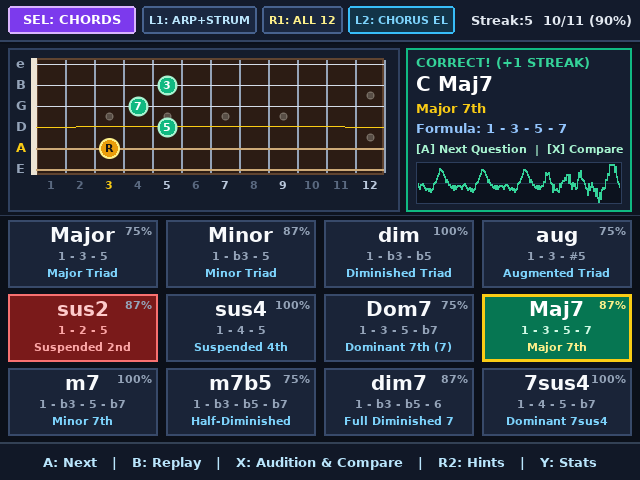
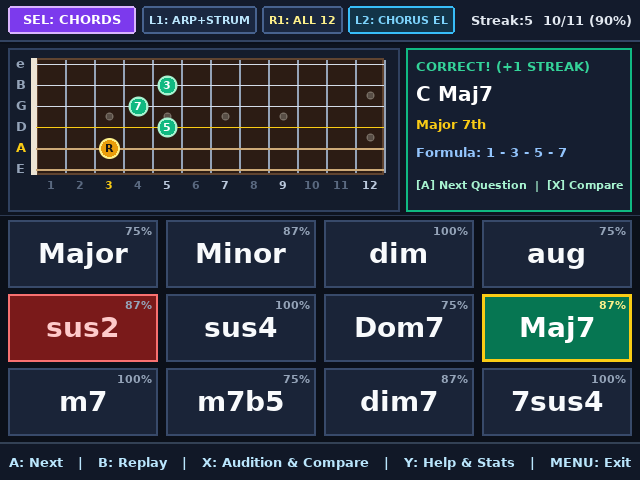
new screenshots

diff --git a/night_clock/README.md b/night_clock/README.md
@@ -15,7 +15,7 @@ A single-screen bedside and desk clock for the **Anbernic RG 35xxSP** (Allwinner
 ### 3. Single-Screen Alarm Editor (in Shifted Timezone)
 ![Alarm Set Mode](promo/alarm_set.png)
 
-### 4. Right Shoulder (`R1`) Controls & Button Mappings Screen
+### 4. Controls & Button Mappings Screen (`Y`)
 ![Help Screen](promo/help_screen.png)
 
 ---
@@ -26,21 +26,21 @@ A single-screen bedside and desk clock for the **Anbernic RG 35xxSP** (Allwinner
    - Pressing **D-Pad `LEFT`** or **`RIGHT`** shifts the clock's displayed time in **30-minute increments** (`-24:00` to `+24:00`) relative to the device's clock (`TZ +00:00`, `TZ +05:30`, `TZ -03:30`, etc.).
    - The shift applies **only** to `night_clock` (the OS/device timezone and RTC are never modified) and is persisted across reboots in `.night_clock.cfg`.
 
-2. **24-Hour Retro LED Dot-Matrix Digital & Minimalist Analog Display (`X` Key)**:
+2. **24-Hour Retro LED Dot-Matrix Digital & Minimalist Analog Display (`SELECT`)**:
    - **Digital Mode (Default)**: Displays **24-hour time** (`00:00` – `23:59`, `HH:MM` without seconds) using a custom **`7×11` Retro LED Dot-Matrix Bit-Font** (`105×165 px` per digit) with a constant (non-blinking) `:` separator, plus a subtle metadata strip underneath (`24H | TZ +/-HH:MM | ALARM ...`).
-   - **Analog Mode (`X` Key)**: Switches to a high-contrast, minimalist analog clock dial (`radius = 178 px`) with bold Hour and Minute batons (no second hand) rendered using anti-aliased distance-field circles and lines, plus a muted-gold alarm indicator needle when the alarm is armed.
+   - **Analog Mode (`SELECT`)**: Switches to a high-contrast, minimalist analog clock dial (`radius = 178 px`) with bold Hour and Minute batons (no second hand) rendered using anti-aliased distance-field circles and lines, plus a muted-gold alarm indicator needle when the alarm is armed.
    - **10-Minute IPS Anti-Burn-In Orbit**: Every **10 minutes**, the clock center smoothly glides to the next position on a bounded 9-point orbit around the `640×480` screen center (`±38 px` horizontal, `±26 px` vertical) so no static high-contrast pixels remain fixed overnight.
 
 3. **Brightness (`UP` / `DOWN`) & Volume Level Indicator (`VOL+` / `VOL-`)**:
    - **Brightness (`UP` / `DOWN`)**: Steps brightness across levels `1..10` (with continuous hold auto-repeat), updating both the hardware backlight (`/sys/class/disp/disp/attr/lcdbl` and `/sys/class/backlight/*/brightness`) and a software RGB dimming curve (`22%..100%`).
    - **Volume Level & Confirmation (`VOL+` / `VOL-`)**: Pressing or holding **`VOL+`** / **`VOL-`** displays an on-screen **Volume** indicator (`0 / 10` .. `10 / 10` with a 10-segment bar) in real time and, when released at the end of the adjustment, plays the confirmation alarm tone at that selected volume.
 
-4. **Single-Screen Alarm Editor (`A` Key) & Controls View (`R1`)**:
+4. **Single-Screen Alarm Editor (`A` Key) & Controls View (`Y`)**:
    - **Set Alarm (`A` Key)**:
      - Pressing **`A`** opens the interactive **Alarm Set** view on the screen (`HOUR`, `MINUTE`, `ON/OFF` in the **shifted timezone**).
      - Pressing **`A`** again saves and arms the alarm, plays a **4-pulse dual-harmonic confirmation alarm sound** (~1.6 seconds) at the current volume, and resumes the clock. Pressing **`B`** disables the alarm and returns to the clock.
-   - **Controls / Help (`R1`)**:
-     - Pressing **`R1`** (Right Shoulder) shows the **Controls & Button Mappings** view on the screen; pressing **`R1`** again resumes the clock.
+   - **Controls / Help (`Y`)**:
+     - Pressing **`Y`** shows the **Controls & Button Mappings** view on the screen; pressing **`Y`** or **`B`** resumes the clock.
 
 ---
 
@@ -50,14 +50,14 @@ A single-screen bedside and desk clock for the **Anbernic RG 35xxSP** (Allwinner
 | :--- | :--- | :--- |
 | **Shift Local Timezone (`-30m` / `+30m`, hold for continuous)** | **D-Pad LEFT** / **RIGHT** | `Left Arrow` / `Right Arrow` |
 | **Adjust Brightness (`1..10`, hold for continuous)** | **D-Pad UP** / **DOWN** | `Up Arrow` / `Down Arrow` |
-| **Toggle Digital (Retro LED 24H) ↔ Analog Clock** | **X** | `X` (or `Left Shift`) |
+| **Toggle Digital (Retro LED 24H) ↔ Analog Clock** | **SELECT** | `Tab` / `Backspace` |
 | **Open Alarm Set Screen / Confirm & Play Test Alarm** | **A** | `A` (or `Space` / `Z` / `Left Alt`) |
-| **Cancel / Turn Off Alarm (in Alarm Set Screen)** | **B** | `B` (or `Backspace` / `Left Ctrl`) |
-| **Quick-Toggle Alarm ON / OFF** | **Y** | `Y` |
-| **Show Controls Screen / Resume Clock** | **R1 (Right Shoulder)** | `R`, `E`, `]`, or `Page Up` |
-| **Fast Alarm Minute Step (`-5m` / `+5m` in Alarm Set Screen)** | **L1 / L2** (`-5m`) and **R2** (`+5m`) | `L` / `Q` / `[` / `1` (`-5m`) and `2` (`+5m`) |
+| **Cancel / Turn Off Alarm (in Alarm Set Screen)** | **B** | `B` (or `Left Ctrl`) |
+| **Quick-Toggle Alarm ON / OFF** | **B** | `B` |
+| **Show Controls Screen / Resume Clock** | **Y** | `Y` (or `H`) |
+| **Fast Alarm Minute Step (`-5m` / `+5m` in Alarm Set Screen)** | **L1 / L2** (`-5m`) and **R1 / R2** (`+5m`) | `L` / `Q` / `[` / `1` (`-5m`) and `R` / `E` / `]` / `2` (`+5m`) |
 | **Volume Up / Down (plays confirmation alarm at end)** | **VOL+** (`115`) / **VOL-** (`114`) | `+` / `=` and `-` / `_` |
-| **Save Configuration & Exit** | **START**, **SELECT**, or **MENU (`M`)** | `Enter`, `Tab`, `M`, or `ESC` |
+| **Save Configuration & Exit** | **MENU (`M`)** | `M`, `Q`, or `ESC` |
 
 ---
 

diff --git a/eartrainer/README.md b/eartrainer/README.md
@@ -6,10 +6,10 @@ A guitar-focused **Interval (`m2`–`P8`) and Chord Quality (`Major`, `Minor`, `
 
 ## Screenshots
 
-### 1. Interval Guessing Mode (`INTERVALS` — 3 Tries, Fretboard Root & Live Waveform)
+### 1. Interval Guessing Mode (`INTERVALS` — 3 Tries & Fretboard Root)
 ![Interval Guessing](promo/eartrainer_intervals.png)
 
-### 2. Interval Revealed (`P5` — Fretboard Shape, Degree Badge, Song Mnemonic & Oscilloscope)
+### 2. Interval Revealed (`P5` — Fretboard Shape, Degree Badge & Song Mnemonic)
 ![Interval Revealed](promo/eartrainer_revealed.png)
 
 ### 3. Chord Quality Mode (`CHORDS` — Moveable 4-String `C Maj7` Voicing & Chorus Electric Timbre)
@@ -28,11 +28,11 @@ A guitar-focused **Interval (`m2`–`P8`) and Chord Quality (`Major`, `Minor`, `
 2. **Asynchronous Background Audio Synthesis Thread**:
    - Note scheduling (`ASC`, `DESC`, `HARM`, `MIX`, `ARP+STRUM`, `STRUM`, `ARPEGGIO`), string excitation, and biquad body filtering run inside a **dedicated background audio thread** driven via a lock-free atomic command ring buffer (`post_audio_batch()`), keeping the `640×480` UI completely non-blocking at 60 FPS.
 3. **Native `640×480` High-Resolution Display**:
-   - **12-Fret 6-String Rosewood Fretboard (`E A D G B e`)**: Displays realistic bronze/steel string gauges, real-time vibrating string animation when notes ring, anti-aliased fret markers (`R` in gold, target interval or 4-string chord shape in emerald green or audition blue with interval degree badges `R`, `3`, `5`, `7`), and fret numbers `1`–`12`.
-   - **Inspector & Live Waveform Oscilloscope Card**: Shows the root note string/fret, remaining guess pips, full interval/chord spelling, classic song mnemonic, and a real-time audio oscilloscope.
-   - **Rich 4×3 Answer Keypad Grid**: Each of the 12 cards displays the interval/chord title, semitone count or chord formula, song mnemonic or full chord name (toggleable via `R2`), and your lifetime accuracy percentage for that item.
+   - **12-Fret 6-String Rosewood Fretboard (`E A D G B e`)**: Displays realistic bronze/steel string gauges, anti-aliased fret markers (`R` in gold, target interval or 4-string chord shape in emerald green or audition blue with interval degree badges `R`, `3`, `5`, `7`), and fret numbers `1`–`12`.
+   - **Inspector Card**: Shows the root note string/fret, remaining guess pips, full interval/chord spelling, and classic song mnemonic.
+   - **High-Visibility 4×3 Answer Keypad Grid**: Each of the 12 cards displays the interval/chord label in large `28px` typography (`m2`, `M2`, `m3`, `M3`, etc.) along with your lifetime accuracy percentage for that item.
 4. **Hardware-Accurate RG 35xxSP & Desktop Keyboard Controls**:
-   - Maps all RG 35xxSP `evdev` buttons (`304`=A, `305`=B, `306`=X, `307`=Y, `308`=L1, `309`=R1, `310`/`314`=SELECT, `311`/`315`=START, `312`=L2, `313`=R2) and desktop keyboard keys (`A`, `B`, `X`, `Y`, `L`, `R`, `1`, `2`, `Tab`, `Enter`, cursor arrows).
+   - Maps all RG 35xxSP `evdev` buttons (`304`=A, `305`=B, `306`=Y, `307`=X, `308`=L1, `309`=R1, `310`=SELECT, `311`=START, `312`=L2, `313`=R2, `316`=MENU) and desktop keyboard keys (`A`, `B`, `X`, `Y`, `L`, `R`, `1`, `2`, `Tab`, `Enter`, cursor arrows).
 
 ---
 

diff --git a/fretboard/README.md b/fretboard/README.md
@@ -22,12 +22,12 @@ An interactive 15-fret guitar neck encyclopedia, CAGED scale box visualizer, cho
    - Replaces the V90's fixed-point 16-bit synthesizer with a 6-string 32-bit `float` Extended Karplus-Strong waveguide synthesizer featuring **first-order Thiran all-pass fractional delay interpolation** (eliminating high-fret pitch quantization up to Fret 15), **pick-position comb filtering**, **dual-biquad acoustic body resonance**, **3 selectable guitar timbres (`L2`)** (*Warm Acoustic*, *Chorus Electric*, and *Tube Overdrive*), and **stereo chorus / room ambience**.
 2. **Asynchronous Background Audio Thread**:
    - All scale box runs, chord strums, arpeggio cascades, and single-string plucks are posted via a lock-free atomic ring buffer (`g_cmd_ring`) and synthesized entirely on a dedicated background audio thread, keeping the `640×480` UI thread at a rock-solid 60 FPS.
-3. **Native `640×480` Resolution & Live Vibrating String Physics**:
-   - Renders a full **15-fret rosewood fingerboard (`Frets 0–15`)** with pearloid inlays (`3, 5, 7, 9, 12, 15`), string gauge shading, real-time vibrating string waveforms, and a live stereo oscilloscope in the upper-right theory card.
+3. **Native `640×480` Resolution**:
+   - Renders a full **15-fret rosewood fingerboard (`Frets 0–15`)** with pearloid inlays (`3, 5, 7, 9, 12, 15`), string gauge shading, and a dedicated upper-right theory & interval spelling card.
    - Displays both the active chord voicing (`F1..F4` fingerings or note names) and the full-neck underlying arpeggio tones simultaneously in **Chords & Arpeggios** mode.
    - Supports **6 guitar tunings (`R2` or inside `Y` Help)**: *Standard (`E A D G B e`)*, *Drop D (`D A D G B e`)*, *Eb Standard*, *D Standard*, *DADGAD*, and *Open G (`D G D G B D`)*.
 4. **Native RG35XXSP Hardware Controls + Desktop Keyboard Parity**:
-   - Maps all RG35XXSP `evdev` buttons (`A=304`, `B=305`, `X=306`, `Y=307`, `L1=308`, `R1=309`, `SELECT=310/314`, `START=311/315`, `L2=312`, `R2=313`) and matching desktop X11 keys (`A`, `B`, `X`, `Y`, `L`/`R`, `1`/`2`, `Tab`, `Enter`, and cursor keys).
+   - Maps all RG35XXSP `evdev` buttons (`A=304`, `B=305`, `Y=306`, `X=307`, `L1=308`, `R1=309`, `SELECT=310`, `START=311`, `L2=312`, `R2=313`, `MENU=316`) and matching desktop X11 keys (`A`, `B`, `X`, `Y`, `L`/`R`, `1`/`2`, `Tab`, `Enter`, and cursor keys).
 
 ---
 

diff --git a/README.md b/README.md
@@ -62,7 +62,7 @@ A guitar ear-training trainer for intervals (`12` intervals across `Easy`, `Medi
 
 ## [Fretboard](fretboard/)
 
-An interactive 15-fret guitar neck encyclopedia (`Frets 0–15`), 5-position CAGED scale box visualizer, chord-voicing browser, and reverse chord finder supporting `6` guitar tunings (`Standard`, `Drop D`, `Eb`, `D Std`, `DADGAD`, `Open G`), live vibrating string animations, and a background 44.1 kHz floating-point EKS guitar synthesizer.
+An interactive 15-fret guitar neck encyclopedia (`Frets 0–15`), 5-position CAGED scale box visualizer, chord-voicing browser, and reverse chord finder supporting `6` guitar tunings (`Standard`, `Drop D`, `Eb`, `D Std`, `DADGAD`, `Open G`) and a background 44.1 kHz floating-point EKS guitar synthesizer.
 
 | Scales & CAGED Box View (`A Blues`, POS 1) | Chords & Arpeggios View (`Cmaj7`, Voicing 2) |
 | :---: | :---: |
@@ -71,7 +71,7 @@ An interactive 15-fret guitar neck encyclopedia (`Frets 0–15`), 5-position CAG
 
 ## [PocketBand](pocketband/)
 
-A 5-track drum machine, walking bassline sequencer, stereo chord-comping backing band, and 12-fret guitar soloing map (`Blues`, `Rock`, and `Jazz` in `4/4` and `3/4`) powered by a background 44.1 kHz floating-point multi-track synthesizer with live per-track VU meters and stereo waveform scope.
+A 5-track drum machine, walking bassline sequencer, stereo chord-comping backing band, and 12-fret guitar soloing map (`Blues`, `Rock`, and `Jazz` in `4/4` and `3/4`) powered by a background 44.1 kHz floating-point multi-track synthesizer with live per-track VU meters.
 
 | Guitarist Jam View (`Blues Shuffle 4/4`) | 5-Track Step & Bassline Editor (`Classic Rock 4/4`) |
 | :---: | :---: |

diff --git a/pocketband/README.md b/pocketband/README.md
@@ -30,11 +30,11 @@ Plug the RG35XXSP's 3.5mm audio output into your guitar amp's AUX input (or head
 2. **Asynchronous Background Audio Thread**:
    - All sequencer timing, voice triggering, floating-point synthesis, and stereo bus mixing run inside a dedicated background audio thread (`audio_thread_worker`) so the `640×480` UI thread never blocks or drops below 60 FPS.
 3. **Native `640×480` IPS Display Layout**:
-   - **Live Per-Track VU Meters (`KCK`, `SNR`, `HAT`, `BAS`, `CMP`)** and a real-time **Stereo Output Oscilloscope**.
+   - **Live Per-Track VU Meters (`KCK`, `SNR`, `HAT`, `BAS`, `CMP`)** and a chord progression & groove inspector card.
    - **12-Fret Rosewood Soloing Scale Map** with labeled anti-aliased dots that toggle between **Intervals (`R, b3, 4, b5, 5, b7`)** and **Note Names (`A, C, D, Eb, E, G`)** via **`L2`**.
    - **5-Track Step Editor (`SELECT`)** that displays both the scale degree (`R, 3, 5, 6, b7, 8`) and the live transposed note name (`E, B`, etc.) inside every bass step cell.
 4. **Native RG35XXSP Hardware Controls + Desktop Keyboard Parity**:
-   - Maps all RG35XXSP `evdev` buttons (`A=304`, `B=305`, `X=306`, `Y=307`, `L1=308`, `R1=309`, `SELECT=310/314`, `START=311/315`, `L2=312`, `R2=313`) and matching desktop X11 keys (`A`, `B`, `X`, `Y`, `L`/`R`, `1`/`2`, `Tab`, `Enter`, and cursor keys).
+   - Maps all RG35XXSP `evdev` buttons (`A=304`, `B=305`, `Y=306`, `X=307`, `L1=308`, `R1=309`, `SELECT=310`, `START=311`, `L2=312`, `R2=313`, `MENU=316`) and matching desktop X11 keys (`A`, `B`, `X`, `Y`, `L`/`R`, `1`/`2`, `Tab`, `Enter`, and cursor keys).
 
 ---
 

diff --git a/pomodoro/README.md b/pomodoro/README.md
@@ -19,12 +19,12 @@ A Pomodoro work timer and work-hours tracker built from the unified `pomodoro.c`
 | Action | Anbernic RG35XX SP Button | Linux Desktop Key |
 | :--- | :--- | :--- |
 | **Toggle Start / Stop (Pause)** | **A Button** | `A`, `Space`, or `Left Alt` |
-| **Switch Mode** (`Work` / `Short Break` / `Long Break`) | **X Button** or **D-Pad LEFT / RIGHT** | `X`, `Left Shift`, or `Left` / `Right Arrow` |
-| **Reset Current Timer** | **Y Button** | `Y` or `R` |
+| **Switch Mode** (`Work` / `Short Break` / `Long Break`) | **SELECT** or **D-Pad LEFT / RIGHT** | `Tab`, `Backspace`, or `Left` / `Right Arrow` |
+| **Reset Current Timer** | **X Button** | `X` or `R` |
 | **Stop / Pause Timer** | **B Button** | `B` or `Left Ctrl` |
-| **Adjust Duration (±1 min while stopped)** | **D-Pad UP / DOWN** or **R1 / L1** | `Up` / `Down Arrow` or `Backspace` / `Tab` |
+| **Adjust Duration (±1 min while stopped)** | **D-Pad UP / DOWN** or **R1 / L1** | `Up` / `Down Arrow` or `]` / `[` |
 | **Fast Adjust Duration (±5 min while stopped)** | **R2 / L2** | `Page Down` / `Page Up` |
-| **Save & Exit to Knulli** | **SELECT**, **MENU (`M`)**, or **START + SELECT** | `Q`, `Esc`, or close window |
+| **Save & Exit to Knulli** | **MENU (`M`)** | `Q`, `Esc`, or close window |
 
 ---
 

diff --git a/chordwheel/README.md b/chordwheel/README.md
@@ -34,7 +34,7 @@ An interactive **Circle of Fifths, Diatonic Harmony Explorer, CAGED Guitar Voici
      2. **Interactive 6-String Rosewood Fretboard**: Displays **3 movable voicings per chord (`L1`/`R1`)** (Open/CAGED, 6-string E-shape barre, 5-string A-shape barre) centered with wide 40 px string spacing and color-coded interval badges (`R`, `3`/`b3`, `5`/`b5`, `7`/`b7`).
      3. **Diatonic Scale Strip (`I` – `vii°`) & 4-Bar Progression Bar**: Highlights all 7 diatonic chords in the active key at a glance alongside the 4-slot progression looper bar at the bottom.
 4. **Hardware-Accurate RG 35xxSP & Desktop Keyboard Controls**:
-   - Supports the Anbernic RG 35xxSP's `evdev` keycodes (`304`=A, `305`=B, `306`=X, `307`=Y, `308`=L1, `309`=R1, `310`/`314`=SELECT, `311`/`315`=START, `312`=L2, `313`=R2) as well as intuitive desktop keyboard keys (`A`, `B`, `X`, `Y`, `L`, `R`, `1`, `2`, `Tab`, `Enter`, cursor arrows) in `chordwheel_linux`.
+   - Supports the Anbernic RG 35xxSP's `evdev` keycodes (`304`=A, `305`=B, `306`=Y, `307`=X, `308`=L1, `309`=R1, `310`=SELECT, `311`=START, `312`=L2, `313`=R2, `316`=MENU) as well as intuitive desktop keyboard keys (`A`, `B`, `X`, `Y`, `L`, `R`, `1`, `2`, `Tab`, `Enter`, cursor arrows) in `chordwheel_linux`.
 
 ---
 

diff --git a/boot_logo/README.md b/boot_logo/README.md
@@ -37,10 +37,10 @@ Every `.bmp` file in `logos/` and `backup/` is formatted to match Knulli Scarab'
 | :--- | :--- |
 | **D-Pad Up / Down / Left / Right** (or Arrow Keys) | Cycle through the 5 boot logo themes |
 | **Button A** (or `A` / `Space` / `Z`) | Open **Flash Boot Logo** confirmation modal; press **A** again to flash & verify |
-| **Button B** (or `B` / `Backspace`) | Open **Revert to Stock** confirmation modal; press **A** to restore factory `bootlogo.bmp` |
-| **Button Y / X** (or `Y` / `X`) | Toggle unobstructed **1:1 Full-Screen `640x480` View** (hides top/bottom HUD bars) |
-| **Button R1** (or `R` / `E`) | Toggle **Controls Help** overlay; press **R1** again to resume |
-| **MENU** (or `Esc` on Desktop) | Exit Boot Logo Customizer |
+| **Button B** (or `B`) | Open **Revert to Stock** confirmation modal; press **A** to restore factory `bootlogo.bmp` (or cancel modal) |
+| **Button SELECT** (or `Tab` / `Backspace`) | Toggle unobstructed **1:1 Full-Screen `640x480` View** (hides top/bottom HUD bars) |
+| **Button Y** (or `Y` / `H`) | Toggle **Controls Help** overlay; press **Y** or **B** to resume |
+| **MENU** (or `Esc` / `Q` on Desktop) | Exit Boot Logo Customizer |
 
 ---
 

diff --git a/metronome/README.md b/metronome/README.md
@@ -17,12 +17,13 @@ A precision C metronome built for the **Anbernic RG35XX SP** clamshell handheld 
 
 | Action | Anbernic RG35XX SP Button | Linux Desktop Key |
 | :--- | :--- | :--- |
-| **Play / Pause** | **A** (or **B**) | `A`, `Space`, `Enter`, or `Left Alt` |
-| **Increase / Decrease Tempo (±1 BPM)** | **D-Pad UP** / **DOWN** | `Up Arrow` / `Down Arrow` |
+| **Play / Pause** | **A** | `A`, `Space`, `Enter`, or `Left Alt` |
+| **Random Beat Drop (`0%`, `15%`, `30%`, `50%`)** | **B** | `B` or `Left Ctrl` |
+| **Increase / Decrease Tempo (±1 BPM, hold for continuous)** | **D-Pad UP** / **DOWN** | `Up Arrow` / `Down Arrow` |
 | **Cycle Time Signature (`4/4`, `3/4`, `2/4`, `5/4`, `7/4`)** | **D-Pad LEFT** / **RIGHT** | `Left Arrow` / `Right Arrow` |
 | **Fast Tempo Step (±5 BPM)** | **R1 / R2** (+5) and **L1 / L2** (-5) | `Page Up` / `Page Down` or `]` / `[` |
-| **Reset to 120 BPM** | **X** or **Y** | `R`, `X`, or `Y` |
-| **Save & Quit to Knulli** | **MENU (`M`)**, **SELECT**, or **START + SELECT** | `Q` or `ESC` |
+| **Reset to 120 BPM** | **X** | `R` or `X` |
+| **Save & Quit to Knulli** | **MENU (`M`)** | `Q` or `ESC` |
 
 ---
 
